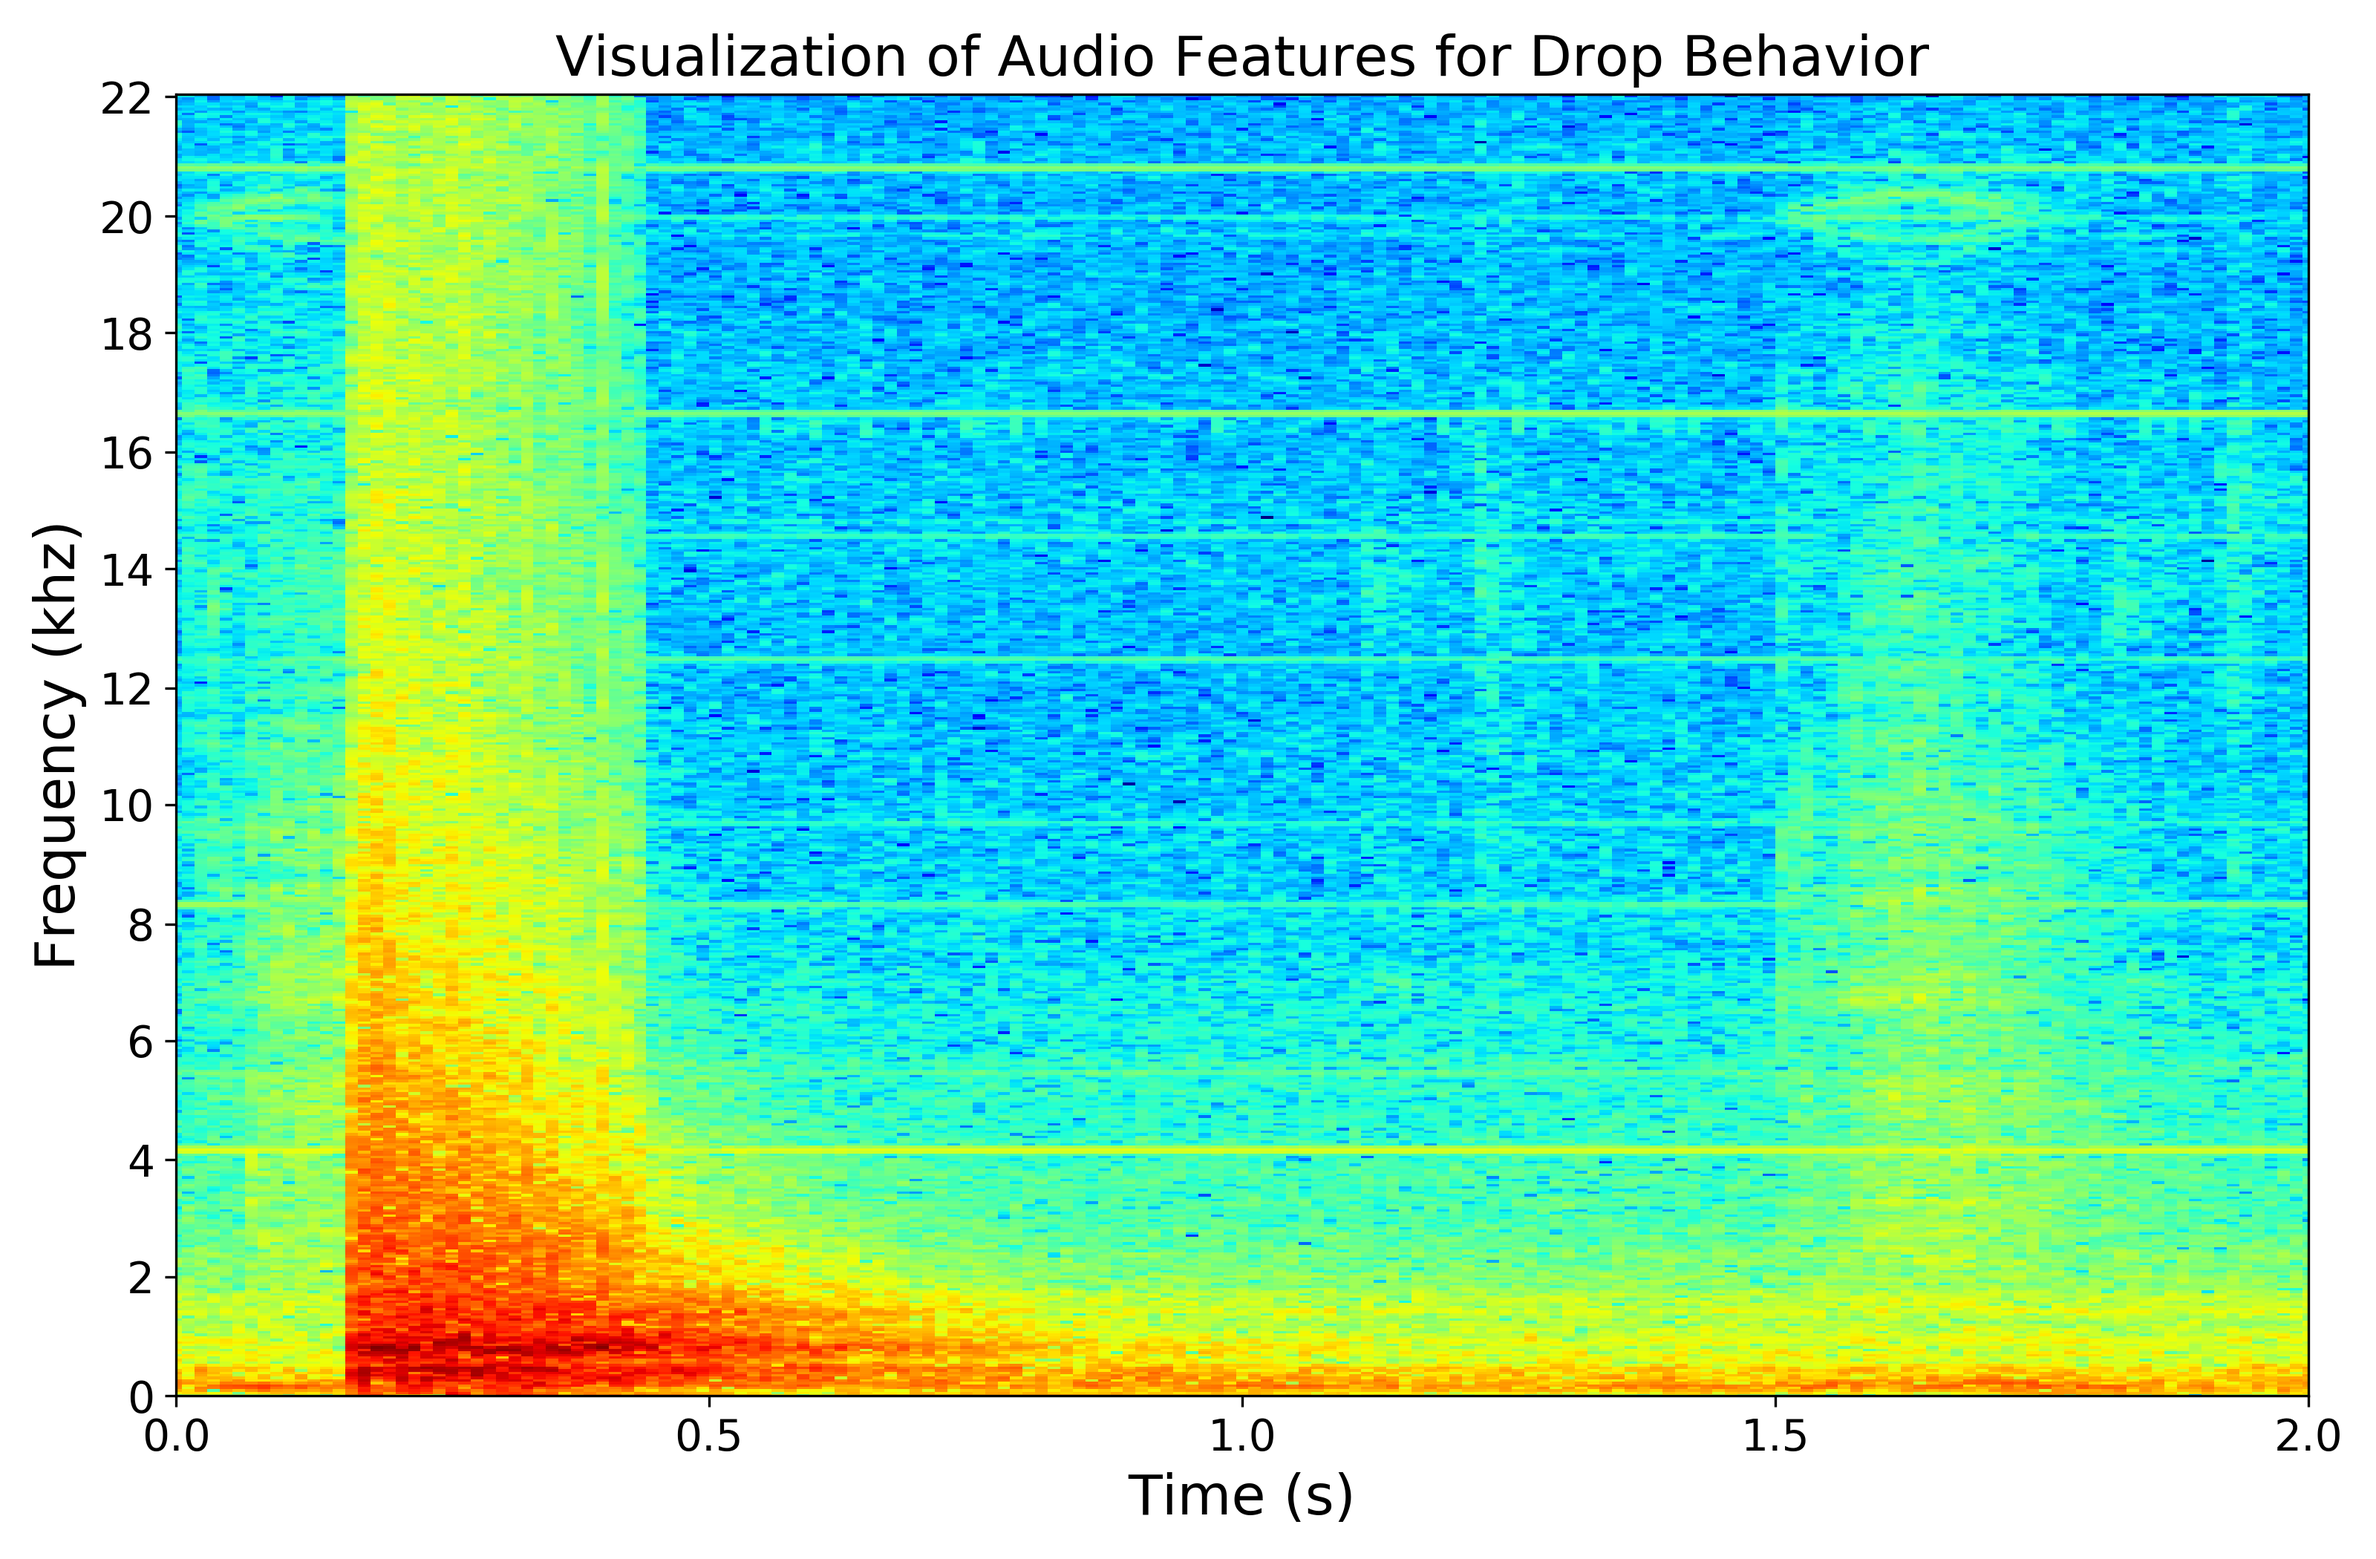
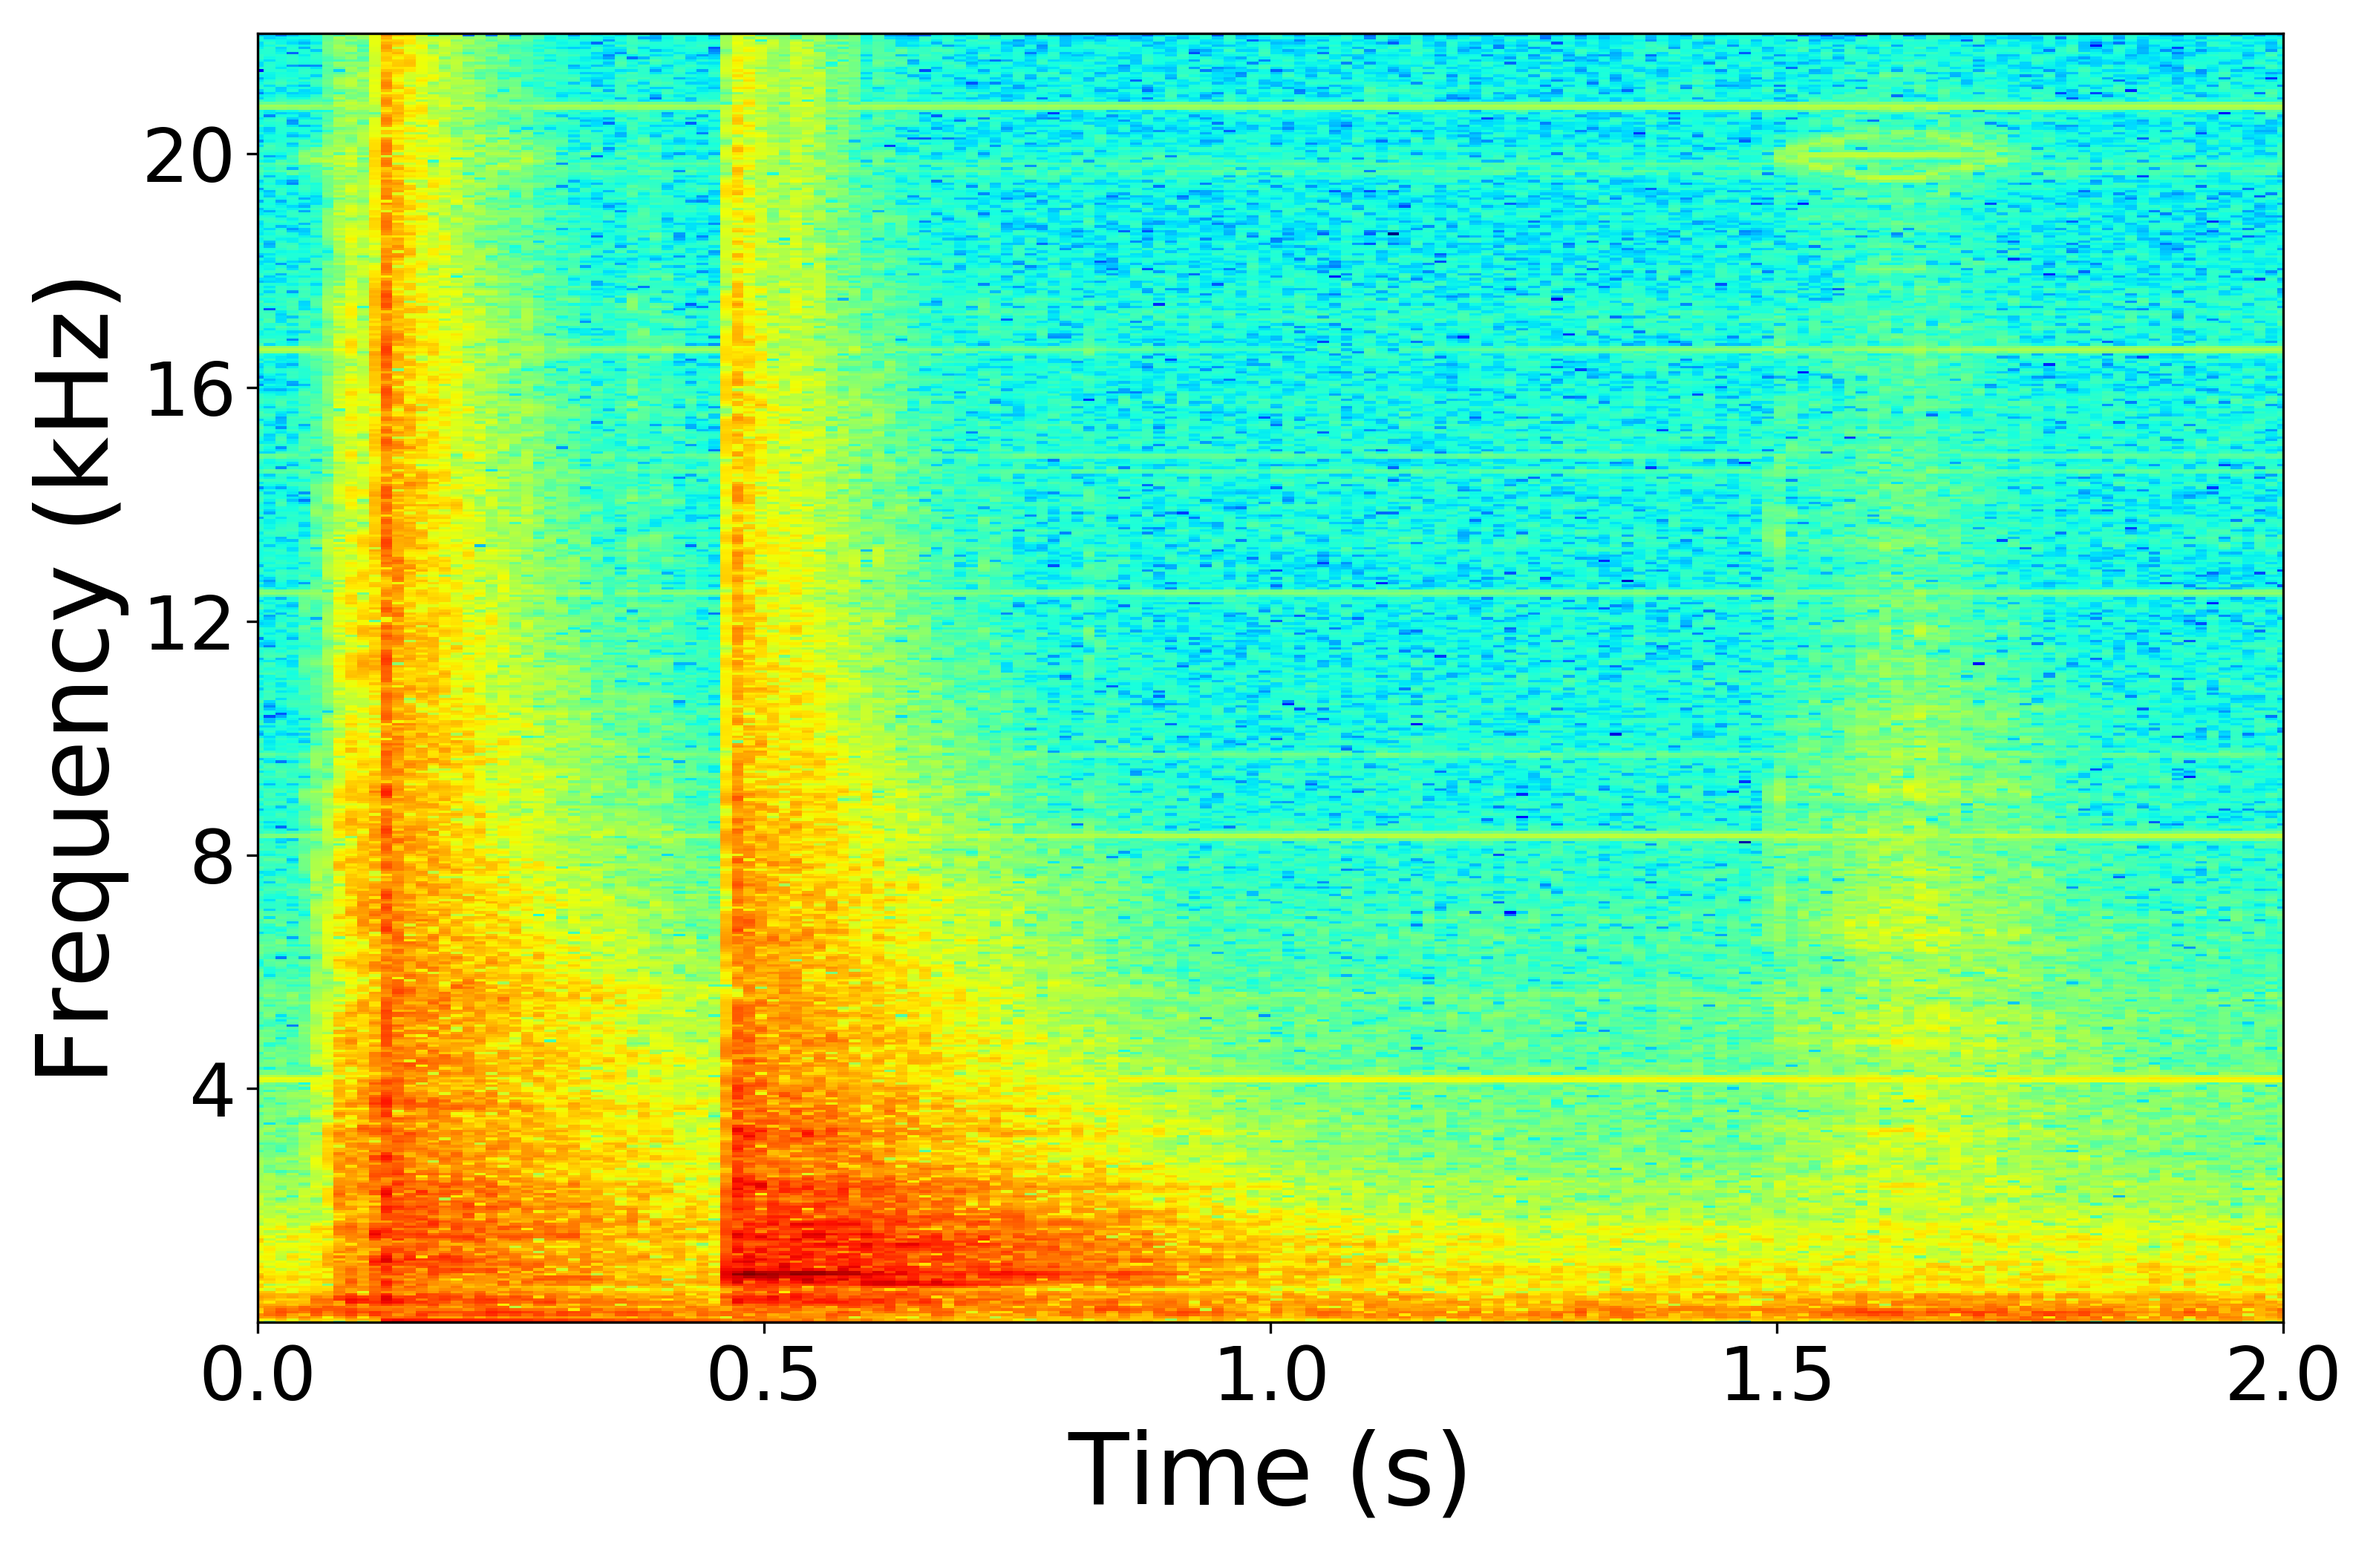
visualization update

diff --git a/dataset_visualization/make_spectrogram_audio.py b/dataset_visualization/make_spectrogram_audio.py
@@ -53,43 +53,37 @@ def logscale_spec(spec, sr=44100, factor=20.):
 """ plot spectrogram"""
 def plotstft(audio_path, binsize=2 ** 10, plotpath=None, colormap="jet", fig_name="spectrogram"):
     samplerate, samples = wav.read(audio_path)
+    import matplotlib.pyplot as plt
     s = stft(samples[:, 0], binsize)
 
     sshow, freq = logscale_spec(s, factor=1.0, sr=samplerate)
     sshow = sshow[2:, :]
     ims = 20. * np.log10(np.abs(sshow) / 10e-6)  # amplitude to decibel
-    ims = np.transpose(ims)
-    ims = ims[0:256, :]
-
-    ### plot
     timebins, freqbins = np.shape(ims)
-    print("timebins: ", timebins)
-    print("freqbins: ", freqbins)
+    plt.figure(figsize=(3200.0/300.0, 2100.0/300.0))
 
-    # plt.figure(figsize=(15, 7.5))
-    fig = plt.figure(figsize=(3400 / 300.0, 1800 / 300.0))
-    plt.imshow(np.transpose(ims), origin="lower", aspect="auto", cmap=colormap, interpolation="none")
-    # plt.colorbar()
-    plt.xlabel("Time (s)", fontsize=18)
-    plt.ylabel("Frequency (Hz)", fontsize=18)
+    # plt.title("Audio Spectrogram", fontsize=32)
+    plt.xlabel("Time (s)", fontsize=32)
+    plt.ylabel("Frequency (kHz)", fontsize=32)
     plt.xlim([0, timebins - 1])
     plt.ylim([0, freqbins])
 
     xlocs = np.float32(np.linspace(0, timebins - 1, 5))
-    plt.xticks(xlocs, ["%.02f" % l for l in ((xlocs * len(samples) / timebins) + (0.5 * binsize)) / samplerate])
-    ylocs = np.int16(np.round(np.linspace(0, freqbins - 1, 10)))
-    plt.yticks(ylocs, ["%.02f" % freq[i] for i in ylocs])
-    plt.title("Visualization of Audio Features for Drop Behavior", fontsize=18)
-    plt.savefig("audio_spectrogram_low_drop_can_coke.png")
-    plt.clf()
-    ###plot
+    plt.xticks(xlocs, ["%.01f" % l for l in ((xlocs * len(samples) / timebins) + (0.5 * binsize)) / samplerate], fontsize=24)
+    ylocs = np.int16(np.round(np.linspace(0, freqbins - 1, 23)))[::4]
+    ylocs1 = list(range(int(np.max(freq)//1000)+1))[::4]
 
-    return ims, 1/samplerate*samples.shape[0]
+    plt.yticks(ylocs[1:], ylocs1[1:], fontsize=24)
+
+    plt.imshow(np.transpose(ims), origin="lower", aspect="auto", cmap=colormap, interpolation="none")
+    # plt.colorbar()
+    plt.tight_layout()
+    plt.savefig("audio_spectrogram_low_drop_can_coke.png", dpi=300)
 
 
 
 def main():
-    audio_path = '/Users/ramtin/PycharmProjects/data/CY101/rc_data/can_coke/trial_1/exec_1/low_drop/hearing/' \
+    audio_path = '/home/golf/code/data/CY101/rc_data/can_coke/trial_1/exec_1/low_drop/hearing/' \
                  '1301423955763139.wav'
     plotstft(audio_path=audio_path)
 
